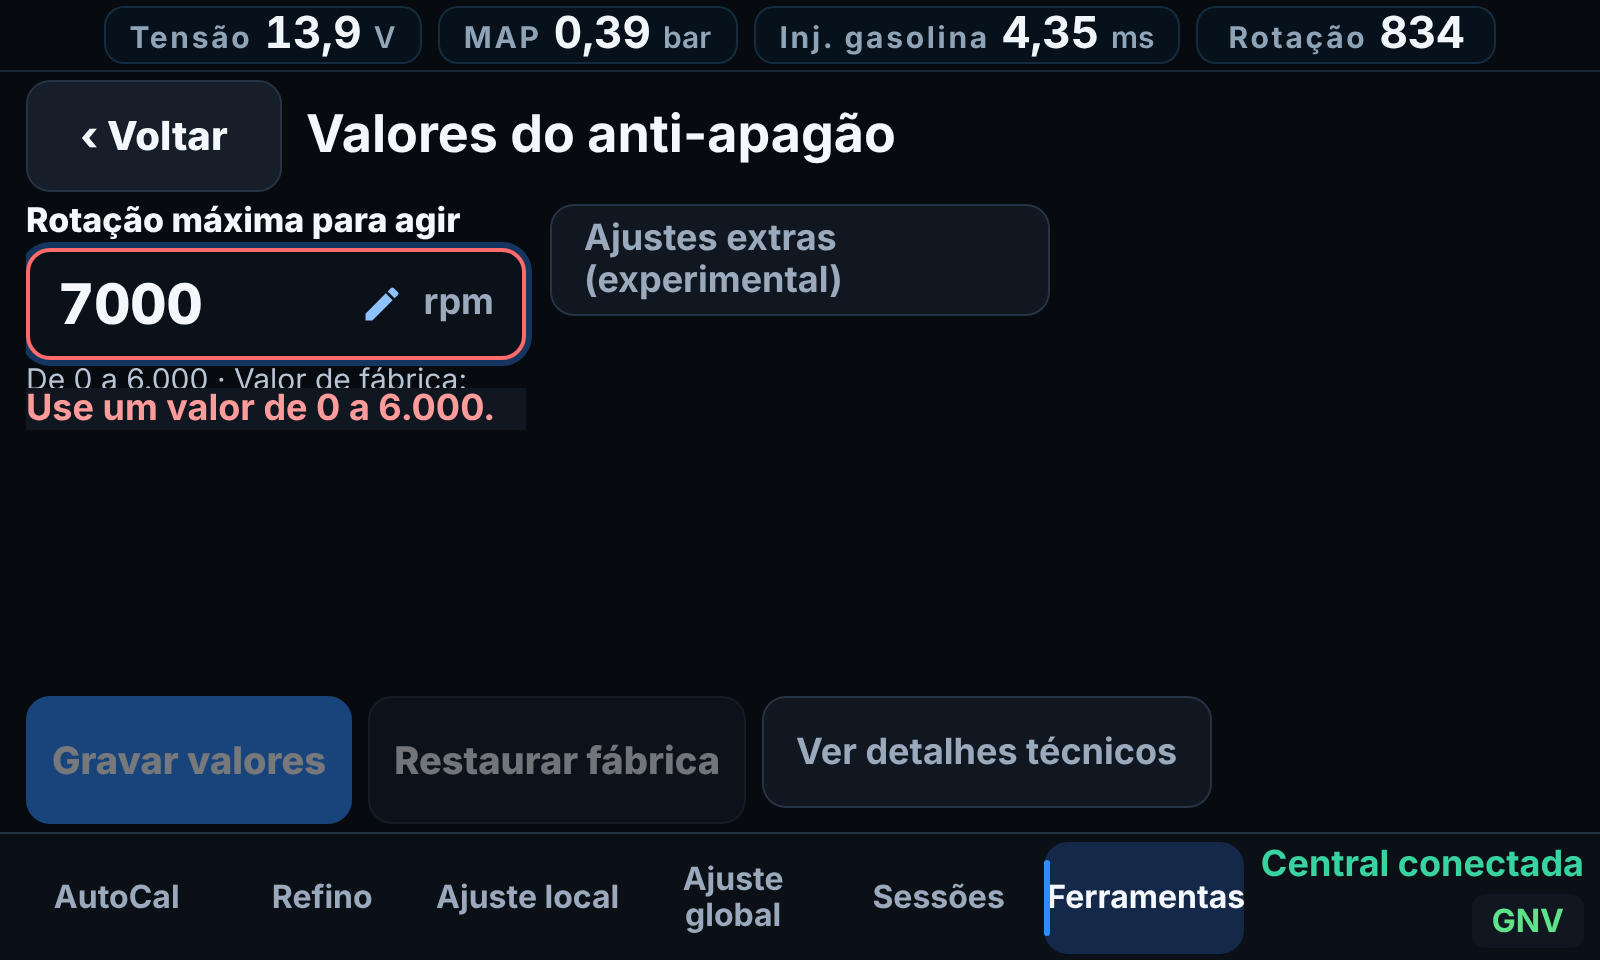
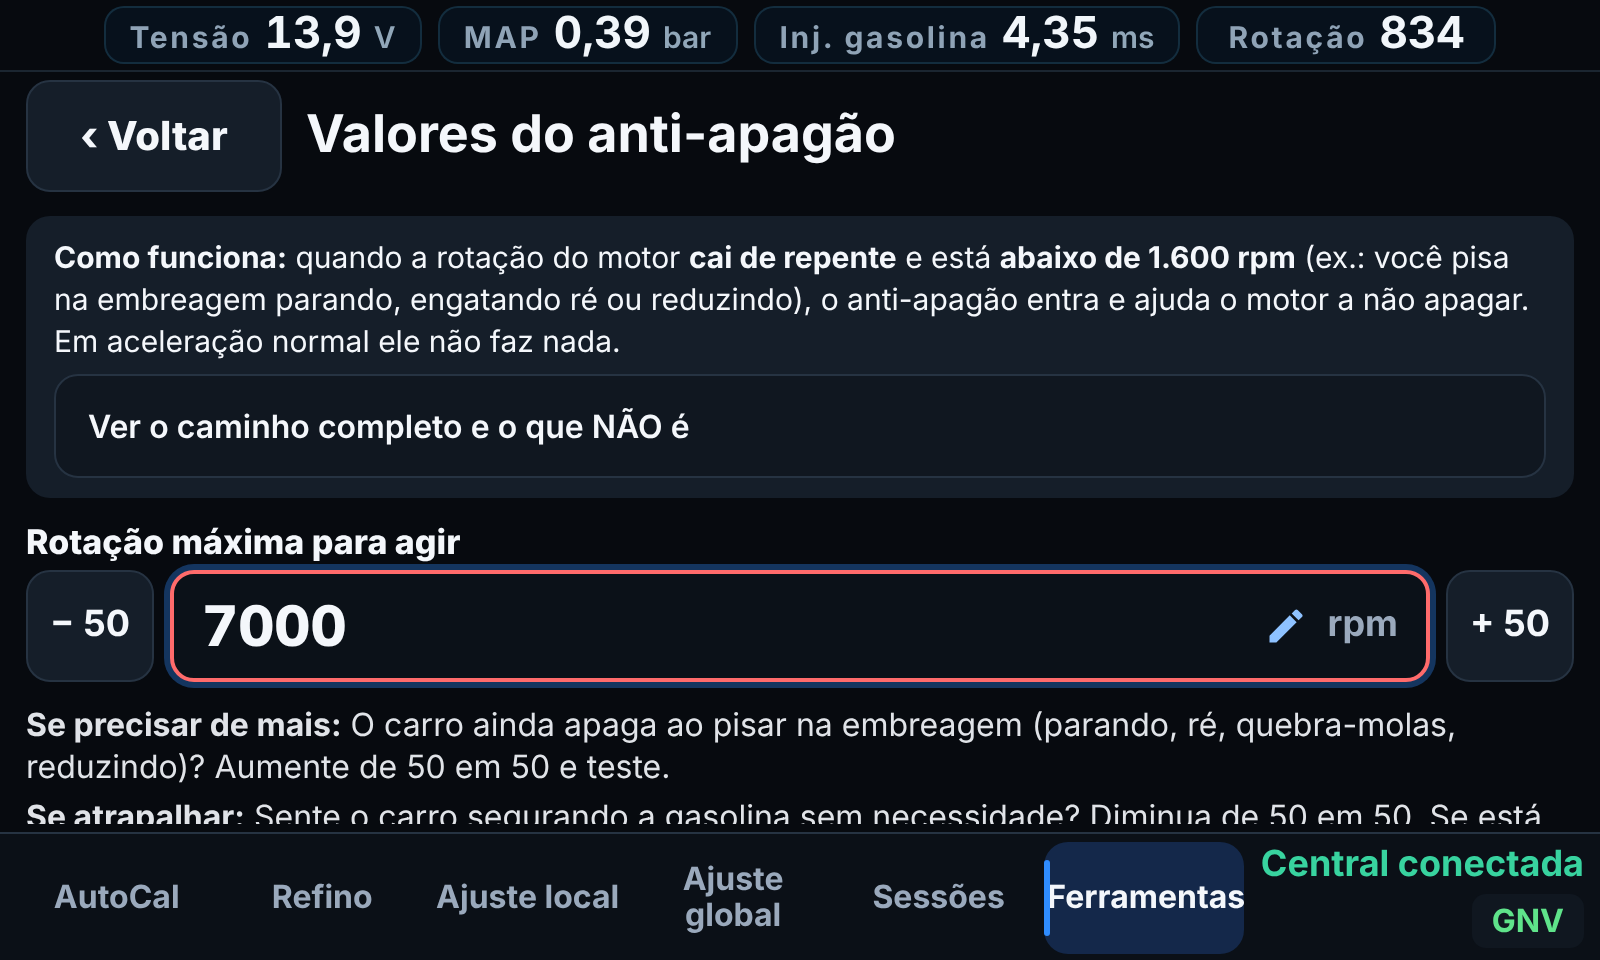
Handoff do Codex: engenharia reversa completa, evidence IDs versionados, auto-auditoria, referências da AutoCal em Ferramentas; testes ao fluxo de 1 toque
Claude-Session: https://claude.ai/code/session_01JEx3o71ikj852jJzY51Gkf

Changed region(s): [[0.0, 0.2188, 1.0, 0.875], [0.9062, 0.8438, 0.9688, 0.875]]

diff --git a/docs/handoff/HANDOFF-ENGENHARIA-REVERSA-CODEX.md b/docs/handoff/HANDOFF-ENGENHARIA-REVERSA-CODEX.md
@@ -1,0 +1,29 @@
+# Handoff do Codex: engenharia reversa COMPLETA do ProgBase (nunca mais descompilar)
+
+Dono (2026-10-19): "a gente nunca mais quer ter que abrir ou fazer esse trabalho de descompilação do ProgBase novamente". Meta: o repositório vira a fonte única; depois desta rodada ninguém abre o .exe. Autonomia total, sem perguntar; commit+push a cada ação; 1 comentário por feature no issue #182.
+
+## Ordem de leitura
+AGENTS.md → docs/handoff/CONTEXTO-DO-DONO.md (regras **sem-atrito** e **didática para leigo**) → PENDENTE.md → CODEX-AUTONOMO.md → docs/progbase/RETOMAR.md → docs/progbase/abas/ANTI-APAGAO-mapa.md (modelo do que entregar por função).
+
+## O que já existe (não refaça)
+docs/progbase/: inventário (classes, funções, i18n), protocolo (vetores.json 389, comandos.json 34), abas 1–16 (B parcial), decomp (Ghidra 29.927 funções, COBERTURA.md), grafo, manual (MAN-2.16.4-pNNN), capturas/originais, bins (log novo). Emulação: tools/emulacao/ (CPU Unicorn do código original, ECU simulada).
+
+## Trabalho (em ordem)
+1. **Fechar a cobertura.** Abra docs/progbase/decomp/COBERTURA.md e liste o que NÃO tem pseudocódigo, nome ou "o que faz". Meta: toda função ligada a uma tela, vetor ou comando com (a) nome, (b) o que faz em 1 frase leiga, (c) evidence id, (d) marca OBS-FIO / OBS-COD / DERIVADO / INFERIDO / DESCONHECIDO. Pontos já conhecidos em aberto: rotinas 0x4A9484 e 0x4C526C (volta automática à gasolina, "pressão baixa 1,25 bar"), bins do Mapa K (vetor de ms; janela "Centros das células" 12×12), aba B.
+2. **Evidence IDs versionados e coerentes.** Esquema único `EV-<área>-<nnn>` (REA/MAN mantêm os próprios prefixos como alias). Arquivo mestre docs/progbase/evidencias/INDEX.json com: id, afirmação, marca, fonte (endereço/captura/página do manual), versão do ProgBase (2.16.4), data, SHA do commit, quem a usa (arquivo do app/teste). Teste de CI que falha se: id citado em doc/código não existe no INDEX; id sem fonte; afirmação INFERIDA usada como fato na interface.
+3. **Auto-auditoria contínua.** A cada ação 1 linha em docs/handoff/AUDITORIA.md (data, ação, teste RED→GREEN, evidence id, risco). Script `tools/progbase/auditar.py` roda: ids órfãos, funções sem dono, afirmações sem fonte, contradições entre docs (ex.: dois valores diferentes para o mesmo vetor). Corrija sozinho o que achar; o que não der, registre em PENDENTE.md.
+4. **Costurar no grafo.** Cada função/vetor/tela/teste/evidência é nó; arestas "tela → vetor → quadro → app → teste → evidência". `graphify update .` + tools/grafo_conhecimento.py + tools/progbase/grafo_progbase.py. O grafo é a forma padrão de responder "isso afeta o quê?" (o dono pergunta isso o tempo todo).
+5. **Perfil da central.** O app só oferece o que a central conectada suporta (tabela por modelo/versão derivada de vetores + capturas).
+
+## Funções de referência da AutoCal → aba Ferramentas ("Avançado")
+Dono quer as funções de referência/configuração da autocalibração em Ferramentas, com mais incisividade e autonomia. Faça nesta ordem:
+- Inventário: liste TODOS os parâmetros e ações do AutoCal no original (TFormAutoCal e correlatas: AUTO_CAL_ENABLE, referências usadas para aprender, ações 02 24 04 <modo>, zonas, aquisição). Marque o que o dono já VIU funcionando em captura/print; só entra no app o que foi visto funcionar (regra do dono), o resto fica "experimental" recolhido.
+- Para cada um: cartão em Ferramentas no padrão do anti-apagão (interruptor ou número com − / +; **1 toque grava, sem pergunta**; conferência em segundo plano; Desfazer no cartão; texto "Como funciona / Se precisar de mais / Se atrapalhar" com a evidência real, ligando a função às vizinhas: o que mais ela afeta, o que NÃO é).
+- Teste RED→GREEN por cartão (modelo: tests/ui/anti-apagao-toque-real.test.cjs e anti-apagao-valores-didatico.test.cjs) + screenshots 1280x720, 1024x600, 800x480 olhados antes de entregar.
+
+## Regras que nunca mudam
+- Pergunta-guia de toda interface: "uma pessoa que nunca mexeu nisso entende, sabe para que lado mexer e o que o carro dela precisa?" Se não, não está pronto.
+- Zero atrito: nada de "tem certeza?", nada de 2º toque, nada de botão "tentar de novo", nada por tempo. O app nunca grava sozinho: o toque do dono é a ordem.
+- Não burlar licença; não versionar .exe/DLL/License.dat; não apagar branches nem force push; não expor tokens.
+- Desconhecido é "—", nunca 0. Nunca "feito" sem teste verde e prova; "UNKNOWN" não é concluído.
+- Teste local mínimo (1 arquivo); suíte inteira na CI. Teste que exige o fluxo antigo de 2 toques deve ser reescrito, não enfraquecido.

diff --git a/docs/handoff/CODEX-AUTONOMO.md b/docs/handoff/CODEX-AUTONOMO.md
@@ -1,4 +1,5 @@
 # Modo autônomo do Codex (leia e siga; só pare quando o limite de 5 h acabar)
+> **Prioridade nova:** HANDOFF-ENGENHARIA-REVERSA-CODEX.md (engenharia reversa completa, evidence IDs versionados, auto-auditoria, funções de referência da AutoCal em Ferramentas).
 
 Ordem de leitura: AGENTS.md → docs/handoff/CONTEXTO-DO-DONO.md → PENDENTE.md → CONTRATO-CODEX.md (§1–§9) → PROMPT-CORRECAO-TELA-FERRAMENTAS.md → docs/progbase/RETOMAR.md. Branch: claude/carregar-sessao-r7j85r.
 
@@ -15,7 +16,7 @@ Corrigir a aba "Ferramentas" VAZIA no WebView (PROMPT-CORRECAO-TELA-FERRAMENTAS.
 - SEMPRE emular a central (tools/emulacao/ecu_emulator.py; ligar ao original via porta serial virtual — CONTRATO §1) e capturar cada tela/ação (PNG + quadros) em docs/progbase/capturas/ e docs/evidence/img/, como já existe no repositório.
 - Engenharia reversa: skill reverse-engineer-anything + REA (investigate_feature, audit_residual_unknowns, verify_reconstruction, compare_functions); se o MCP estourar tempo, usar `npx -y rea-agents@6.4.0` em segundo plano. Evidence ids (REA e MAN-) no INDEX.md; costurar tudo no Graphify (graphify update . + tools/grafo_conhecimento.py + tools/progbase/grafo_progbase.py) a cada marco.
 - SEMÂNTICA: muitos nomes parecidos têm funções diferentes (TFormAutoCal ≠ TFormCalibra ≠ TFormCorrCalibra; AutoCal de aprendizado ≠ calibração rápida; FLAG_CONF1/2/3...). Para cada nome: 1 linha "o que é / o que NÃO é" no glossário interno docs/progbase/semantica.md, e textos da interface em linguagem simples e autoexplicativa. Para cada função: causa→efeito didático (como altera, melhora, refina ou ajuda o usuário).
-- Regras permanentes: app NUNCA grava sozinho (2 toques + leitura de volta + Desfazer); nada por tempo; não burlar licença; não versionar .exe/DLL/License.dat; linguagem leiga; alvo multimídia paisagem.
+- Regras permanentes: app NUNCA grava sozinho (o toque do dono é a ordem: 1 toque, sem confirmação; conferência em segundo plano + Desfazer); nada por tempo; não burlar licença; não versionar .exe/DLL/License.dat; linguagem leiga; alvo multimídia paisagem.
 
 ## Canal de comentários (funciona)
 `gh` usa o token já configurado no ambiente (não exibir/copiar). GraphQL é bloqueado; use REST: `gh api repos/viluadmcontas2-dot/OMEGAS-V8.2/issues/182/comments -f body='...' ` (terminar o corpo com a linha "_Generated by [Claude Code](https://claude.ai/code)_"). Comente a cada feature concluída.

diff --git a/docs/handoff/PENDENTE.md b/docs/handoff/PENDENTE.md
@@ -1,4 +1,5 @@
 # Pendente — ledger único (lido no início de cada sessão; atualizado a cada marco)
+> **Novo (2026-10-19):** engenharia reversa completa + funções de referência da AutoCal em Ferramentas: veja `docs/handoff/HANDOFF-ENGENHARIA-REVERSA-CODEX.md` (prioridade do Codex). Regra sem-atrito = 1 toque, sem confirmação (substitui "2 toques").
 
 ## Agora (APK urgente: o carro apaga ao sair do lugar e ao parar/pisar na embreagem)
 - [ ] Interface para leigo na multimídia (paisagem 1280x720, 1024x600, 800x480): estilo da tela AutoCal, sem jargão
